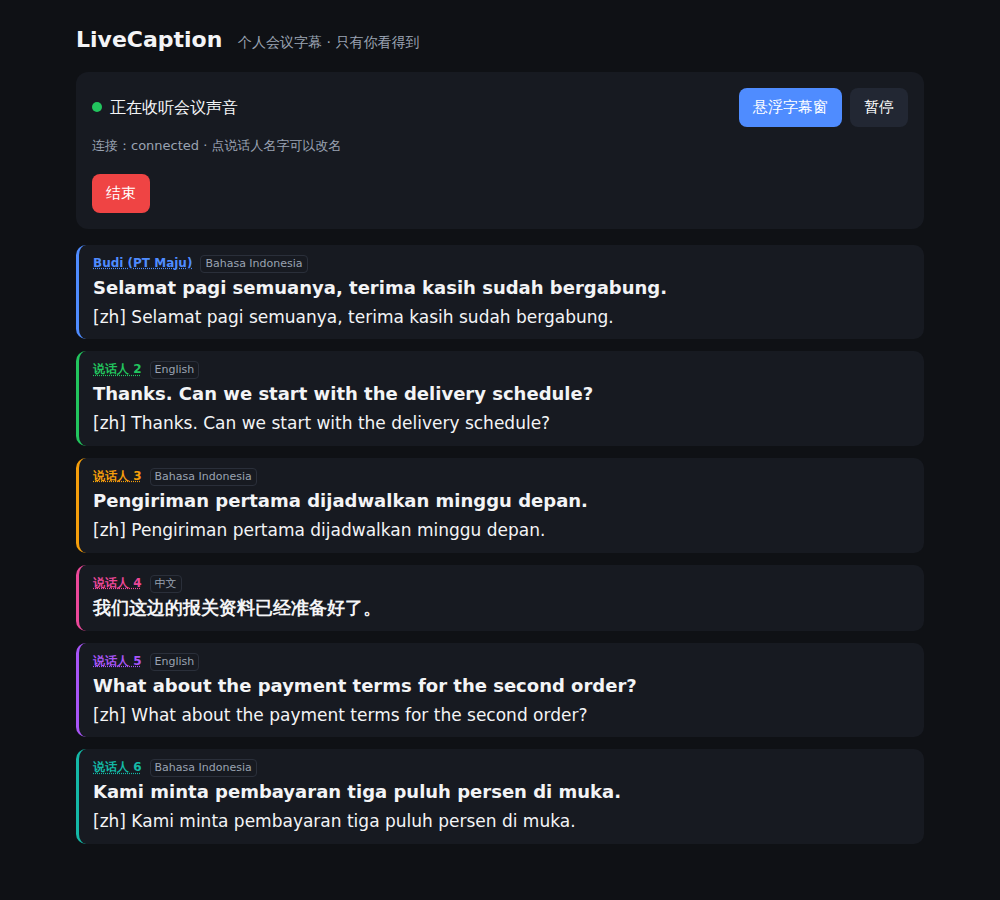
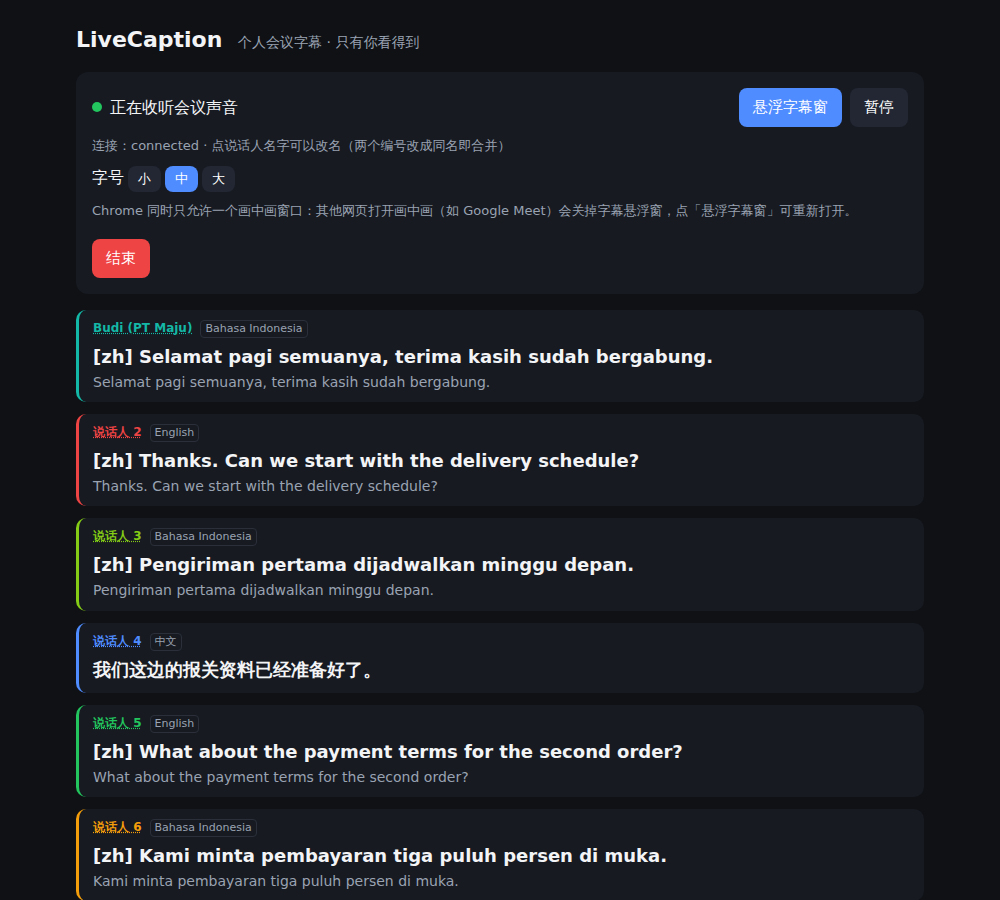
livecaption: translation-first layout, font sizes, distinct speaker colours; archive research
- personal mode shows the translation on top (original muted below), S/M/L sizes
- speaker colours by first appearance (no collisions for 8), placeholder grey
- docs/research/personal-mode-research.md: verified findings + sources

Claude-Session: https://claude.ai/code/session_01QJtEqmEMbhusFRGpY57oy1

Changed region(s): [[0.062, 0.1867, 0.837, 1.0], [0.341, 0.1556, 0.496, 0.1867]]

diff --git a/livecaption/web/src/Personal.tsx b/livecaption/web/src/Personal.tsx
@@ -31,6 +31,8 @@ export function Personal() {
   const [, bump] = useState(0);
   const namesRef = useRef<SpeakerNames | null>(null);
   const [cfg, setCfg] = useState<ServerConfig | null>(null);
+  const [size, setSize] = useState<"s" | "m" | "l">(() => (localStorage.getItem("lc.size") as "s" | "m" | "l") || "m");
+  const pickSize = (v: "s" | "m" | "l") => { setSize(v); try { localStorage.setItem("lc.size", v); } catch { /* ignore */ } };
   useEffect(() => {
     serverConfig().then((c) => {
       setCfg(c);
@@ -209,7 +211,12 @@ export function Personal() {
             </div>
           </div>
         )}
-        <div className="small">连接：{state}{error ? ` — ${error}` : ""} · 点说话人名字可以改名</div>
+        <div className="small">连接：{state}{error ? ` — ${error}` : ""} · 点说话人名字可以改名（两个编号改成同名即合并）</div>
+        <div className="sizebar">字号
+          {(["s", "m", "l"] as const).map((v) => (
+            <button key={v} className={size === v ? "on" : ""} onClick={() => pickSize(v)}>{{ s: "小", m: "中", l: "大" }[v]}</button>
+          ))}
+        </div>
         {(state === "disconnected" || state === "error") && (
           <div className="err">连接已断开，字幕已停止。<button onClick={restart}>重新开始</button></div>
         )}
@@ -221,10 +228,10 @@ export function Personal() {
         <div className="actions"><button className="danger" onClick={stop}>结束</button></div>
         {err && <p className="err">{err}</p>}
       </div>
-      <CaptionView lines={lines} langs={session.targets} nameOf={nameOf} onRename={rename} />
+      <CaptionView lines={lines} langs={session.targets} nameOf={nameOf} onRename={rename} translationFirst size={size} />
       {pipWin && (
         <PipPortal win={pipWin} onClose={closePip}>
-          <CaptionView lines={latest} langs={session.targets} nameOf={nameOf} compact />
+          <CaptionView lines={latest} langs={session.targets} nameOf={nameOf} compact translationFirst size={size} />
         </PipPortal>
       )}
     </div>

diff --git a/livecaption/web/src/CaptionView.tsx b/livecaption/web/src/CaptionView.tsx
@@ -8,7 +8,7 @@ import { speakerColor } from "./speakers";
  * A translation row is skipped when the line is already in that language.
  * Translation state is visible but unobtrusive (… pending, ⚠ failed/skipped).
  */
-export function CaptionView({ lines, langs, big, showSource = true, nameOf, onRename, compact }: {
+export function CaptionView({ lines, langs, big, showSource = true, nameOf, onRename, compact, translationFirst, size }: {
   lines: Line[];
   langs: string[];
   big?: boolean;
@@ -16,9 +16,13 @@ export function CaptionView({ lines, langs, big, showSource = true, nameOf, onRe
   nameOf?: (l: Line) => string;
   onRename?: (l: Line) => void;
   compact?: boolean;
+  /** Personal mode: the reader reads the translation; put it on top so their eyes don't jump. */
+  translationFirst?: boolean;
+  size?: "s" | "m" | "l";
 }) {
+  const cls = ["captions", big && "big", compact && "compact", translationFirst && "tr-first", size && `size-${size}`];
   return (
-    <div className={"captions" + (big ? " big" : "") + (compact ? " compact" : "")}>
+    <div className={cls.filter(Boolean).join(" ")}>
       {lines.map((l) => {
         const color = speakerColor(l.speakerId);
         const rows = langs.filter((lang) => lang !== l.srcLang);
@@ -35,7 +39,7 @@ export function CaptionView({ lines, langs, big, showSource = true, nameOf, onRe
               </span>
               {l.srcLang && l.srcLang !== "auto" && <span className="srclang">{LANG_LABEL[l.srcLang] ?? l.srcLang}</span>}
             </div>
-            {(showSource || rows.length === 0) && <div className="src">{l.text}</div>}
+            {(showSource || rows.length === 0) && <div className={"src" + (rows.length === 0 ? " only" : "")}>{l.text}</div>}
             {rows.map((lang) => {
               const txt = l.tr[lang];
               return (

diff --git a/livecaption/web/src/styles.css b/livecaption/web/src/styles.css
@@ -49,3 +49,12 @@ button.ghost { background: #222733; }
 .captions.compact .src { font-size: 15px; font-weight: 500; } .captions.compact .tr { font-size: 18px; font-weight: 600; margin-top: 2px; }
 .pip-body { margin: 0; padding: 8px; background: var(--bg); color: var(--fg); overflow: hidden; display: flex; flex-direction: column; justify-content: flex-end; height: 100vh; box-sizing: border-box; }
 .small.warn { color: var(--warn); }
+
+/* personal mode: translation on top, original muted below; reader font sizes */
+.captions.tr-first .line { display: flex; flex-direction: column; }
+.captions.tr-first .meta { order: 0; } .captions.tr-first .tr { order: 1; font-weight: 600; } .captions.tr-first .src { order: 2; font-size: 14px; font-weight: 400; color: var(--muted); margin-top: 2px; }
+.captions.size-s .tr { font-size: 15px; } .captions.size-m .tr { font-size: 18px; } .captions.size-l .tr { font-size: 24px; }
+.captions.size-l .src { font-size: 16px; }
+.sizebar { display: inline-flex; gap: 4px; } .sizebar button { padding: 4px 10px; font-size: 13px; background: #222733; } .sizebar button.on { background: var(--accent); }
+.captions.tr-first .src.only { order: 1; font-size: 18px; font-weight: 600; color: var(--fg); margin-top: 4px; }
+.captions.size-s .src.only { font-size: 15px; } .captions.size-l .src.only { font-size: 24px; }

diff --git a/livecaption/web/src/speakers.ts b/livecaption/web/src/speakers.ts
@@ -1,11 +1,19 @@
 /** Per-user speaker display: stable colours and local renames ("说话人 2" -> "Budi"). */
 
 const PALETTE = ["#4f8cff", "#22c55e", "#f59e0b", "#ec4899", "#a855f7", "#14b8a6", "#ef4444", "#84cc16"];
+const UNATTRIBUTED = "#6b7280";
+const assigned = new Map<string, string>();
 
+/** Colours by order of first appearance, so the first 8 speakers never share a colour.
+ *  The unattributed placeholder ("会议声音", id ending in ":meeting") stays grey. */
 export function speakerColor(id: string): string {
-  let h = 0;
-  for (let i = 0; i < id.length; i++) h = (h * 31 + id.charCodeAt(i)) >>> 0;
-  return PALETTE[h % PALETTE.length];
+  if (id.endsWith(":meeting")) return UNATTRIBUTED;
+  let c = assigned.get(id);
+  if (!c) {
+    c = PALETTE[assigned.size % PALETTE.length];
+    assigned.set(id, c);
+  }
+  return c;
 }
 
 export class SpeakerNames {

diff --git a/livecaption/web/tests/captions.test.ts b/livecaption/web/tests/captions.test.ts
@@ -69,3 +69,12 @@ test("retract removes a line and blocks late messages for it", () => {
   s.apply(msg({ kind: "patch", sid: "echo", tr: { zh: "x" } }));
   assert.equal(s.size(), 0);
 });
+
+test("speaker colours: distinct by first appearance, placeholder grey", async () => {
+  const { speakerColor } = await import("../src/speakers");
+  const ids = ["t#1:S0", "t#1:S1", "t#1:S2", "t#1:S3", "t#1:S4", "t#1:S5"];
+  const colours = ids.map(speakerColor);
+  assert.equal(new Set(colours).size, 6);
+  assert.equal(speakerColor("t#1:S0"), colours[0]); // stable
+  assert.equal(speakerColor("host-1:meeting"), "#6b7280");
+});

diff --git a/docs/research/personal-mode-research.md b/docs/research/personal-mode-research.md
@@ -1,0 +1,55 @@
+# 个人模式调研：线上会议分人字幕，只有我看得到
+
+调研日期：2026-10-05。方法：5 个方向并行调研，每条关键结论再由 2 名独立核查员（查官方文档 / 找反例）尝试推翻，共 45 个 agent。
+设计落地见 `livecaption/ARCHITECTURE.md` §1、§3a。
+
+## 1. 网页能不能拿到会议声音
+
+| 平台 | 会议客户端（腾讯会议等）的声音 | 网页版会议（标签页） | 置顶悬浮窗（Document PiP） |
+| --- | --- | --- | --- |
+| Windows 10 + Chrome/Edge | 整个屏幕 +「共享系统音频」（Chrome 74+） | ✔ | ✔ 116+ |
+| Windows 11 + Chrome 146+ | 另可只选会议窗口 +「共享应用音频」 | ✔ | ✔ |
+| macOS 14.2+ + Chrome 141+（142+ 默认开） | 整个屏幕 +「共享系统音频」，需系统「录屏与系统录音」权限 | ✔ | ✔（会议全屏时被盖住） |
+| macOS < 14.2 / Linux（默认） | ✘ | ✔ | ✔ |
+| Safari 27 / Firefox 157 | ✘（getDisplayMedia 不返回音频） | ✘ | ✘ / Firefox 151+ |
+| 任何浏览器 + 虚拟声卡（BlackHole / VB-CABLE / 立体声混音 / PipeWire Monitor） | ✔（getUserMedia 选该设备） | ✔ | 同上 |
+
+要点（核实后）：
+- macOS 上系统录音权限被拒时，Chrome 不报错而是返回一条已结束的音轨 → 必须检查 `readyState`（已实现）。
+- getDisplayMedia 必须带视频轨；我们保留 1 fps、不发布。
+- 麦克风 `echoCancellation: "all"`（Chrome 141+，仅 Win11 / macOS 14.2+）以系统回环为参考，能消掉腾讯会议客户端外放的声音；普通 `true` 只消 Chrome 自己播放的声音。
+- Chromium 全浏览器只有一个画中画窗口（与视频画中画共用），其他网页打开画中画会关掉字幕窗。
+- 悬浮窗无法从屏幕共享里排除（网页做不到；Electron 的 `setContentProtection` 在 Windows 10 2004+ 有效，macOS 15+ 无效）。
+
+## 2. 识别服务：一路混音里分出 6 个人 + 中/印/英混说
+
+| 服务 | 实时分人 | 中/印/英自动识别 | 价格（实时） | 结论 |
+| --- | --- | --- | --- | --- |
+| **Soniox stt-rt-v5**（2026-06-16 GA） | ✔ 逐 token `speaker`（≤15） | ✔ 逐 token `language`，句中切换 | ≈ $0.12/h（含分人、语种）；自带翻译另计 ≈ +$0.06–0.16/h | **选用** |
+| Deepgram Nova-3 | ✔ 定稿上整句多数说话人（`diarize=true` 已弃用但可用；推荐 `diarize_model`） | ✘ `multi` 只覆盖 en/es/fr/de/hi/ru/pt/ja/it/nl | $0.46/h 正价（促销 $0.29）+ 分人 $0.12/h | 单语种会议可用 |
+| Azure ConversationTranscriber | ✔ | 逐句语言识别（≤10 候选） | ≈ $1.3/h | 唯一有中国大陆区；LiveKit 插件不支持分人 |
+| Speechmatics | ✔ 逐段 | ✘ 实时需固定语言包（自动语种模型仍在预览） | — | 观察 |
+| AssemblyAI U3.6 Pro | ✔ 每轮一个说话人 | 无印尼语 | $0.45 + $0.12/h | 不适用 |
+| Gladia / ElevenLabs / 阿里 Fun-ASR / 通义听悟 / 腾讯 | 无实时分人或无印尼语 | — | — | 不适用 |
+
+要点：
+- Soniox 无中国大陆节点（US/EU/JP/IN），key 按区域绑定 → agent 部署在香港/东京/新加坡，`LC_SONIOX_URL` 指向 JP。
+- LiveKit 插件 1.8.4 全部不会在定稿里按说话人切句；Soniox 插件只取首个 token 的说话人 → 我们打了补丁（`soniox_patch.py`）按 (说话人, 语种) 切分。
+- 任何服务在混音里分人都会错（第三方测得 Soniox 实时 DER 40%+），说话人标签会在早期翻转；每次重连会从头编号 → 我们按连接代命名空间。
+
+## 3. 竞品做法（可借鉴的 UX）
+
+- 会议软件自带翻译字幕（腾讯会议 17 语种含印尼语、Teams、Zoom、Meet）都是"仅自己可见 + 有真名"，但要**主持人/组织者**有付费套餐，且主持人可关闭——参会的中国销售常常用不上，这是本产品的空间。
+- 第三方工具（Granola 等）大多只按来源分"我 / 他们"，不在实时字幕里分远端的人；能分人的（Otter、Krisp、Transync、讯飞角色分离）多是会后改名。
+- 不戴耳机的回声是行业通病（开源 quill：42 分钟会议里 641 句"我"有 477 句是回声）。主流做法：时间重叠 + 文本相似度去重，或系统回环做参考的回声消除。
+- 布局共识：说话人名 + 语种标签；原文/译文双语；字号可调；可弹出置顶小窗；译文放上面避免视线跳动。
+
+## 主要来源
+
+- Chromium 源码：`desktop_media_picker_controller.cc`、`media_switches.cc`、`media_stream_audio_processor_options.cc`（github.com/chromium/chromium）
+- MDN browser-compat-data 8.1.4（2026-10-01）；WICG Document Picture-in-Picture 规范
+- Electron 文档：session.md、desktop-capturer.md、breaking-changes.md；Apple Core Audio taps 示例（insidegui/AudioCap、makeusabrew/audiotee）
+- Soniox：soniox.com/blog/soniox-v5-real-time、/pricing、/docs（speaker-diarization、websocket-api、rt-translation）；Soniox Python SDK 2.10.0
+- Deepgram：deepgram/deepgram-api-specs（asyncapi.yml）、models-languages-overview、deepgram/skills CHANGELOG（2026-10-02）
+- LiveKit Agents 1.8.4 插件源码（deepgram、soniox、speechmatics、assemblyai、azure、gladia、elevenlabs）
+- 腾讯会议帮助中心（实时字幕/翻译）；Granola、Otter、Krisp 帮助文档；quill issue #56

diff --git a/livecaption/ARCHITECTURE.md b/livecaption/ARCHITECTURE.md
@@ -121,7 +121,7 @@ STT 选型（可插拔，`LC_STT` 切换；2026-10 调研 + 对抗核实）：
    - core 做文本相似度去重：麦克风 final 先压 1 秒，期间会议声音出现相似句则丢弃；已显示的发 `retract` 撤回。
 5. **隐私**：房间 `max_participants=3`，agent 只给房主发字幕（e2e 测试验证：拿到同房间 token 的第三者收到 0 条）；个人会话不能用入会码查到。悬浮窗无法从屏幕共享中排除，界面提示"共享屏幕前先关悬浮窗"。
 
-浏览器能力（2026-10 调研，详见 `docs/research/`）：
+浏览器能力（2026-10 调研，详见仓库根目录 `docs/research/personal-mode-research.md`）：
 
 | 平台 | 会议客户端的声音 | 网页版会议（标签页） | 悬浮窗 |
 | --- | --- | --- | --- |
